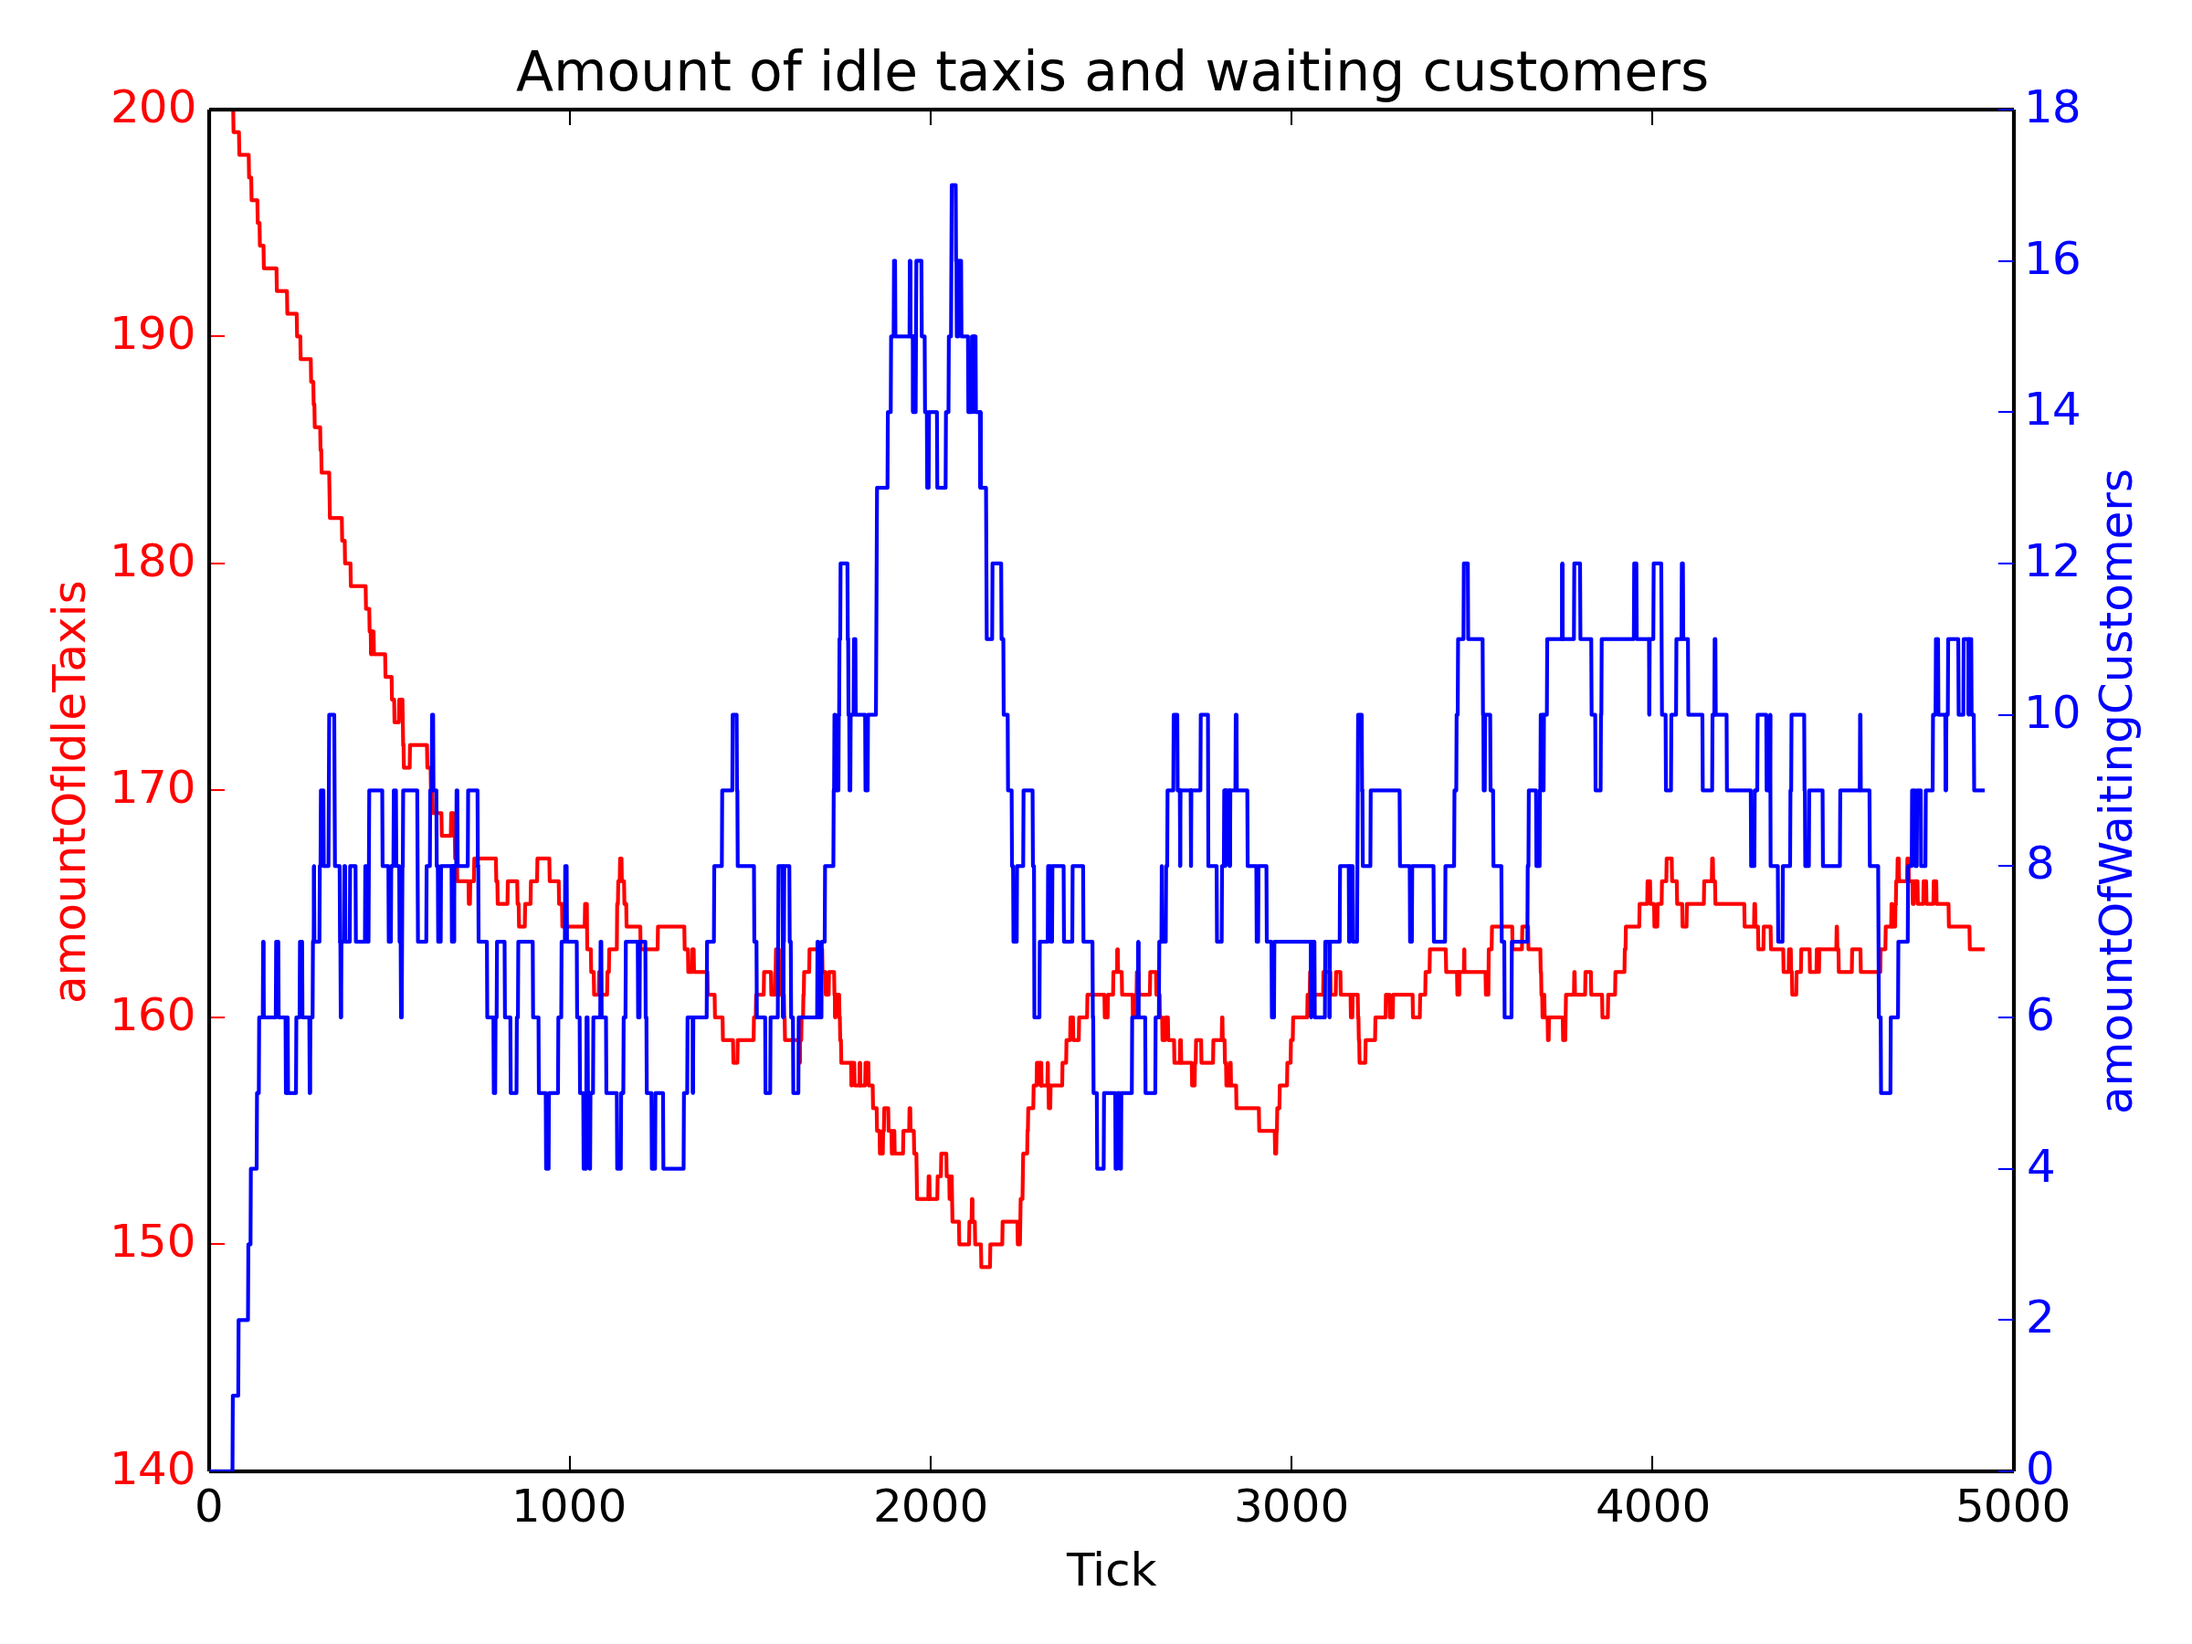
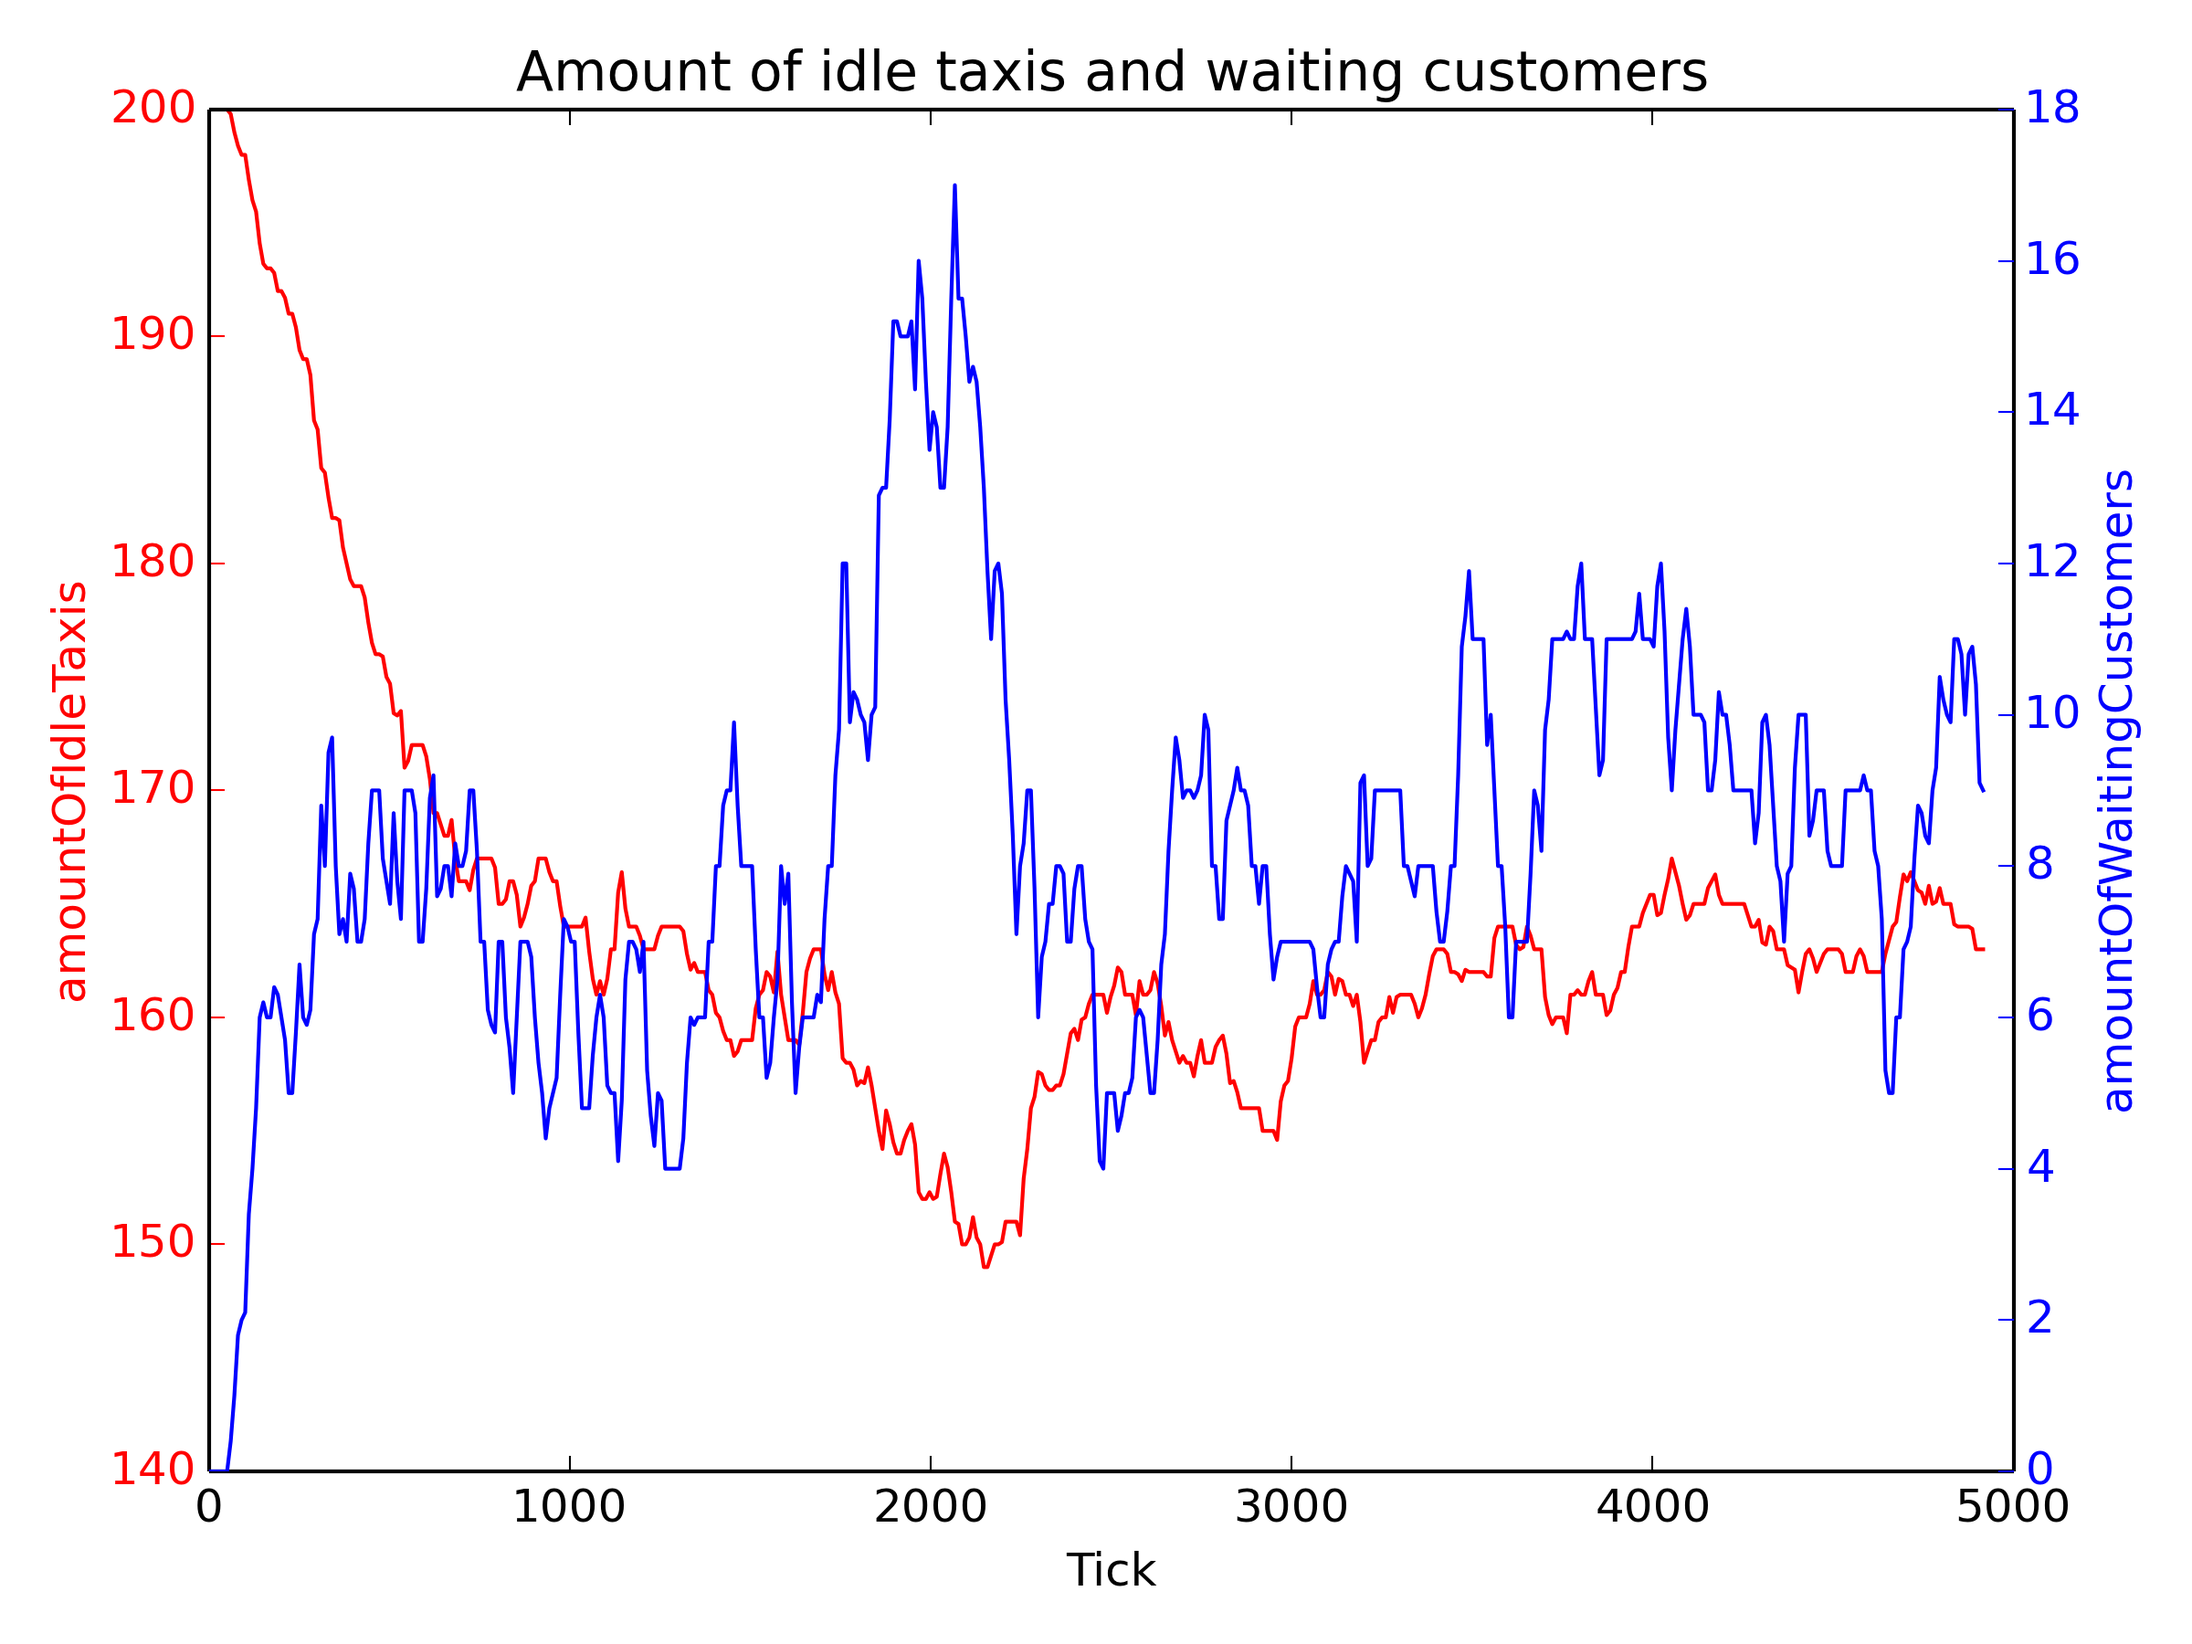
Sampling

diff --git a/scripts/json_experiments.py b/scripts/json_experiments.py
@@ -1,7 +1,9 @@
 import fnmatch
 import json
 import os
+from math import ceil
 
+import numpy as np
 from matplotlib import pyplot as plt
 
 path = os.path.join('..', 'stats')
@@ -21,18 +23,33 @@ def make_plots(timestamp, j):
   make_double_plot(timestamp, j, 'Amount of idle taxis and waiting customers', 'amountOfIdleTaxis', 'amountOfWaitingCustomers')
 
 
+def average(arr, n):
+  end = n * int(len(arr) / n)
+  return np.mean(np.asarray(arr)[:end].reshape(-1, n), 1)
+
+
 def make_double_plot(timestamp, j, title, k1, k2, xlabel='Tick'):
   fig, ax1 = plt.subplots()
 
-  ax1.plot(j[k1], 'r-')
+  points = 500
+  x_max = max(len(j[k1]), len(j[k2]))
+  sample = int(ceil(1.0 * x_max / points))
+
+  y1 = average(j[k1], sample)
+  x1 = np.linspace(0, x_max, num=len(y1))
+  ax1.plot(x1, y1, 'r-')
   ax1.set_xlabel(xlabel)
   ax1.set_ylabel(k1, color='r')
   ax1.tick_params('y', colors='r')
 
   ax2 = ax1.twinx()
-  ax2.plot(j[k2], 'b-')
+  y2 = average(j[k2], sample)
+  x2 = np.linspace(0, x_max, num=len(y2))
+  ax2.plot(x2, y2, 'b-')
   ax2.set_ylabel(k2, color='b')
   ax2.tick_params('y', colors='b')
+
+  plt.ylim(ymin=0)
 
   plt.title(title)
   fig.tight_layout()
